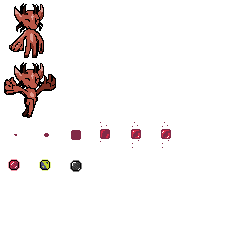
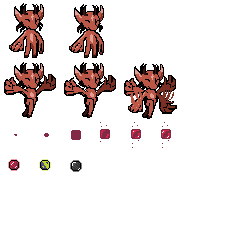
Troika hover jumping, fireball shooting, camera will not show edge of level

Changed region(s): [[0.2625, 0.0, 0.7583, 0.4958]]

diff --git a/lib/game/entities/player.js b/lib/game/entities/player.js
@@ -21,6 +21,8 @@ ig.module(
             collides: ig.Entity.COLLIDES.ACTIVE,
 
 
+            flappingPowerLeft : 0,
+
             gravityFactor : 1.4,
 
             init: function( x, y, settings ) {
@@ -31,7 +33,7 @@ ig.module(
                 //this.addAnim( 'run', 0.1, [8,9,10,11,12,13,14] );
 
                 this.addAnim( 'jump',.5, [4] );
-                //this.addAnim( 'fire',.05, [24,25,26,27] );
+                this.addAnim( 'flappingWings',.05, [5,6] );
             },
 
 
@@ -44,8 +46,6 @@ ig.module(
 
                     if (!ig.game.getEntitiesByType( EntityOrb )[0])
                     {
-                        ig.log("adsa");
-
                         if( !ig.global.wm )
                         { // Not in WM?
                             ig.game.spawnEntity( EntityOrb, 0,  0 );
@@ -72,60 +72,74 @@ ig.module(
                 }
 
 
-                // jump
+                // jump or flap
                 if( this.standing && ig.input.pressed('jump') ) {
                     this.vel.y = -600;
+                    this.flappingPowerLeft = 10;
                 }
+                else if (ig.input.state('jump') && ( this.flappingPowerLeft > 0))
+                {
+                    this.vel.y = -300;
+                    this.flappingPowerLeft--;
+                }
+
 
                 // shoot
-                if( ig.input.pressed('fire') ) {
-                    ig.game.spawnEntity( EntityFireball, this.pos.x, this.pos.y, {flip:this.flip} );
-                }
-
-
-
                 if( ig.input.pressed('toggle') ) {
 
-                    if (ig.game.globalVariableForToggleBox == "PURPLE")
+                    if ( ig.game.globalVariableForOrb == 'FIRE')
                     {
-                        ig.game.globalVariableForToggleBox = "GREEN";
+                        ig.game.spawnEntity( EntityFireball, this.pos.x, this.pos.y, {flip:this.flip} );
                     }
-                    else if (ig.game.globalVariableForToggleBox == "GREEN")
+                    else if(ig.game.globalVariableForOrb  == 'TOGGLE')
                     {
-                        ig.game.globalVariableForToggleBox = "PURPLE";
+
+                        if (ig.game.globalVariableForToggleBox == "PURPLE")
+                        {
+                            ig.game.globalVariableForToggleBox = "GREEN";
+                        }
+                        else if (ig.game.globalVariableForToggleBox == "GREEN")
+                        {
+                            ig.game.globalVariableForToggleBox = "PURPLE";
+                        }
+                    }
+                    else if(ig.game.globalVariableForOrb  == 'TOGGLE')
+                    {
+
+                        if (ig.game.globalVariableForToggleBox == "PURPLE")
+                        {
+                            ig.game.globalVariableForToggleBox = "GREEN";
+                        }
+                        else if (ig.game.globalVariableForToggleBox == "GREEN")
+                        {
+                            ig.game.globalVariableForToggleBox = "PURPLE";
+                        }
                     }
 
-                    ig.log(ig.game.globalVariableForToggleBox);
+
+
                 }
 
 
-
+               //******************************************
+                //****************************************
 
                 if( this.vel.y != 0 )
                 {
-                    this.currentAnim = this.anims.jump;
+                    if (ig.input.state('jump') && ( this.flappingPowerLeft > 0))
+                    {
+                        this.currentAnim = this.anims.flappingWings;
+                    }
+                    else
+                    {
+                        this.currentAnim = this.anims.jump;
+                    }
+
                 }
                 else
                 {
                     this.currentAnim = this.anims.idle;
                 }
-
-
-                //Handle animations
-                /*
-                if( ig.input.pressed('fire') || ig.input.state('fire') ) {
-                    this.currentAnim = this.anims.fire;
-                }
-                else if( this.vel.y != 0 ) {
-                    this.currentAnim = this.anims.jump;
-                }
-                else if( this.vel.x != 0 ) {
-                    this.currentAnim = this.anims.run;
-                }
-                else {
-                    this.currentAnim = this.anims.idle;
-                }
-                 */
 
 
                 this.parent();

diff --git a/lib/game/main.js b/lib/game/main.js
@@ -38,8 +38,9 @@ MyGame = ig.Game.extend({
 		ig.input.bind( ig.KEY.RIGHT_ARROW, 'right' );
         ig.input.bind( ig.KEY.UP_ARROW, 'up' );
 
+
 		ig.input.bind( ig.KEY.SPACE, 'jump' );
-        ig.input.bind( ig.KEY.Z, 'fire' );
+        ig.input.bind( ig.KEY.Z, 'toggle' );
         ig.input.bind( ig.KEY.T, 'toggle');
 
         this.loadLevel( LevelMAP );
@@ -50,14 +51,20 @@ MyGame = ig.Game.extend({
         this.parent();
 
         //*****************************************
-		// screen follows the player
-		var player = this.getEntitiesByType( EntityPlayer )[0];
-		if( player ) {
-			this.screen.x = player.pos.x - ig.system.width/2;
-			this.screen.y = player.pos.y - ig.system.height/2;
-			}
-        //*********************************************
-		
+        // screen follows the player, does not go off edge of level
+        var player = this.getEntitiesByType( EntityPlayer )[0];
+        if (player) {
+            x = player.pos.x - (ig.system.width / 2);
+            y = player.pos.y - (ig.system.height / 2);
+
+            this._mapWidth = ig.game.backgroundMaps[0].width * ig.game.backgroundMaps[0].tilesize - (ig.system.width);
+            this._mapHeight = ig.game.backgroundMaps[0].height * ig.game.backgroundMaps[0].tilesize - (ig.system.height);
+
+            this.screen.x = (x > 0 && x < this._mapWidth) ? x : this.screen.x;
+            this.screen.y = (y > 0 && y < this._mapHeight) ? y : this.screen.y;
+        }
+
+        ///*******************************************
 
 	
 	},
@@ -75,9 +82,9 @@ MyGame = ig.Game.extend({
 			y = ig.system.height/2;
 
 
-		this.font.draw( 'Demo of Impact Framework', 20, ig.system.height-50, ig.Font.ALIGN.LEFT );
+		this.font.draw( 'Troika', 20, ig.system.height-50, ig.Font.ALIGN.LEFT );
 		this.font.draw( 'Arrows/WSAD to Move', 20, ig.system.height-40, ig.Font.ALIGN.LEFT );
-		this.font.draw( 'Space to jump, Z to fire', 20, ig.system.height-30, ig.Font.ALIGN.LEFT);
+		this.font.draw( 'Space to jump, Z to toggle power', 20, ig.system.height-30, ig.Font.ALIGN.LEFT);
 
 
     }
